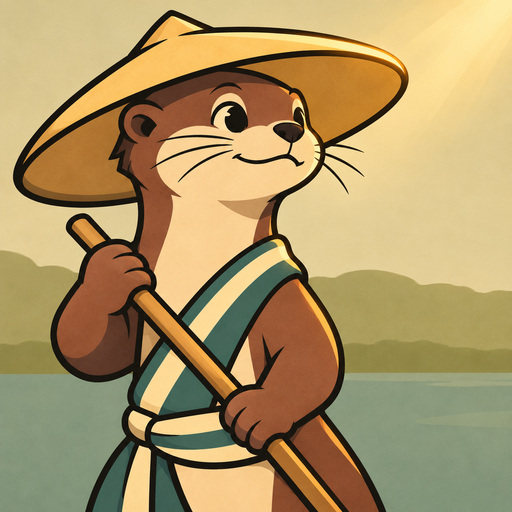
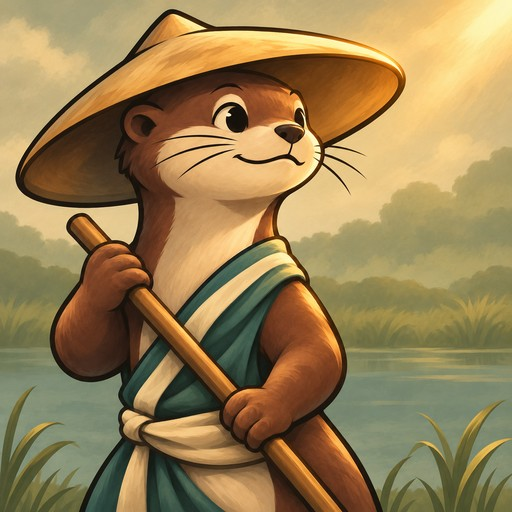
Complete notch batch 0 fallback and scene repaints

diff --git a/docs/ideation/ui/loop1/art-notch-0.md b/docs/ideation/ui/loop1/art-notch-0.md
@@ -2,8 +2,8 @@
 
 Baseline: `e6af222d`. Scope is the 57 batch-0 jobs plus Fairies fallback: 58 identities, including two unchanged approved trials (Dame Hoolet and Grey Agnes). The other ten trials belong to the other slices.
 
-47/56 new repaints accepted; two approved trials reused. Complete production `header-notch.txt` is unchanged in every `notch-<id>.txt`; old flat-background colour clauses were removed and one form/light direction added. Reference order: current identity, both frozen inkglow anchors, assigned notch pilot. PNG masters and original JPEGs are under `build/notch/`. Exports are 512×512 RGB JPEG, quality 90; import files remain untouched.
+56/56 new repaints accepted; two approved trials reused. Complete production `header-notch.txt` is unchanged in every `notch-<id>.txt`; old flat-background colour clauses were removed and one form/light direction added. Reference order: current identity, both frozen inkglow anchors, assigned notch pilot. PNG masters and original JPEGs are under `build/notch/`. Exports are 512×512 RGB JPEG, quality 90; import files remain untouched.
 
-Every accepted image received a paired 150px identity/form/outer-ink check; the two repainted heroes also passed 70px circular checks. 4 identities needed a retry. Retry notes: cricket_busker: First candidate replaced the mushroom seat with a wooden stump; per-item note corrected.; alderman_dozey: Missing table acorn in first candidate.; changeling: Sword became a spoon in first candidate.; figgy_duff: First candidate replaced the faint full pudding echo outline with a steam curl.. Current images retained after failed retry: none.
+Every accepted image received a paired 150px identity/form/outer-ink check; the two repainted heroes also passed 70px circular checks. 56 generations, no retries; no originals retained because of a failed repaint.
 
-Rollout in progress; final contact sheet will be `build/notch/contact-sheet.png`.
+All 58 slice identities are paired against the setup commit in `build/notch/contact-sheet.png` (exact 150px cells, sorted by tribe). Header/anchor immutability, export dimensions, scope and diff checks passed. No UI, content, gameplay, tests or import files changed.
